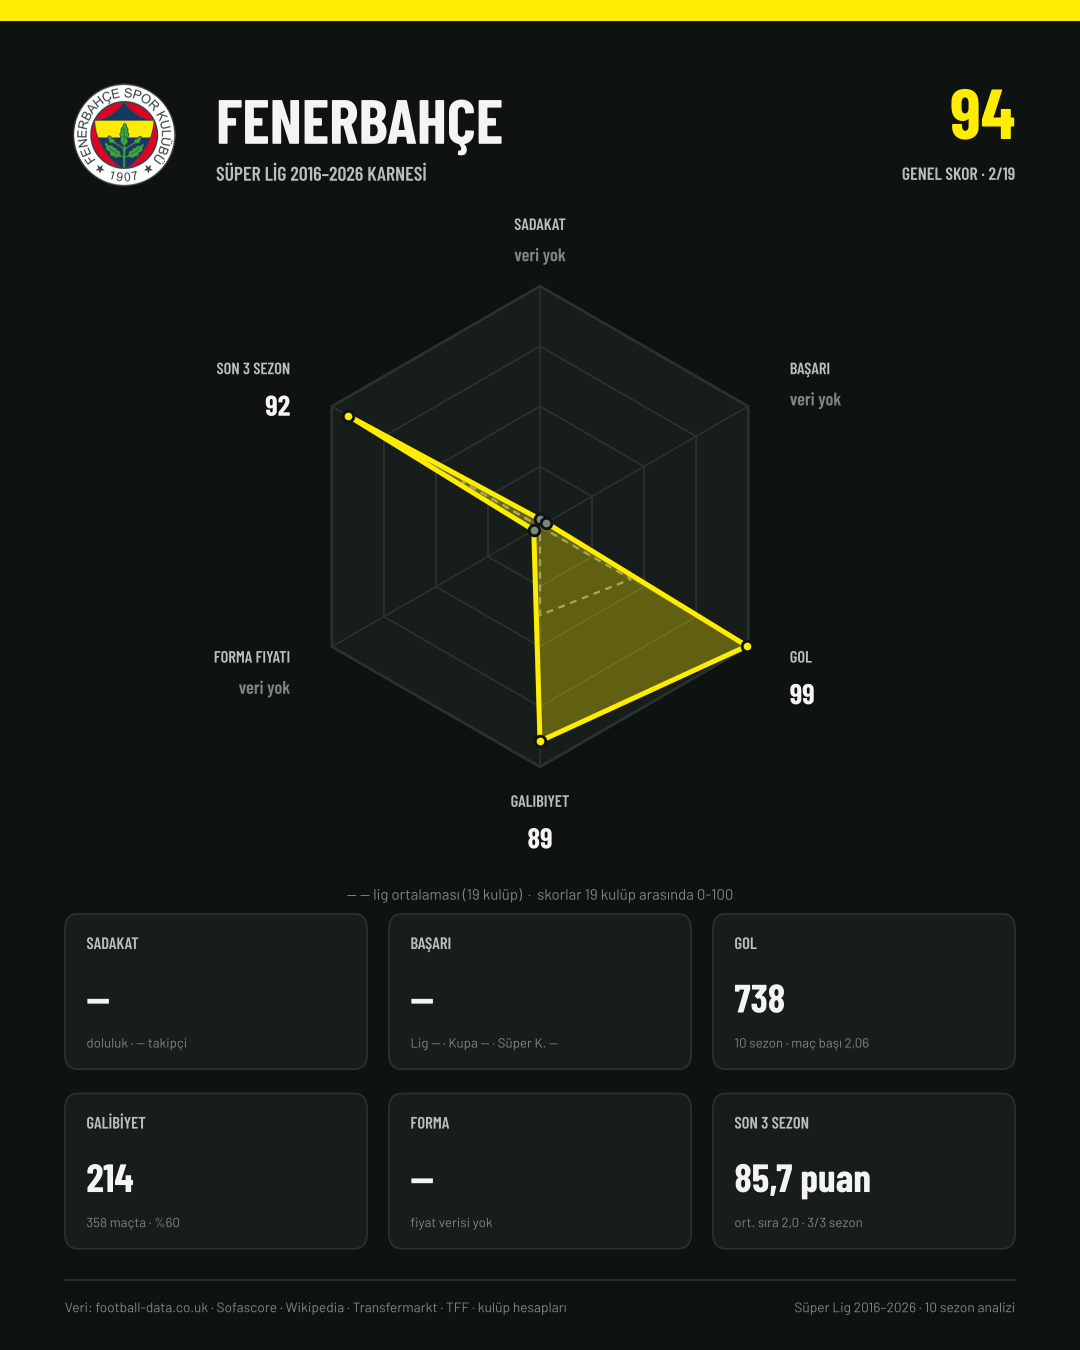
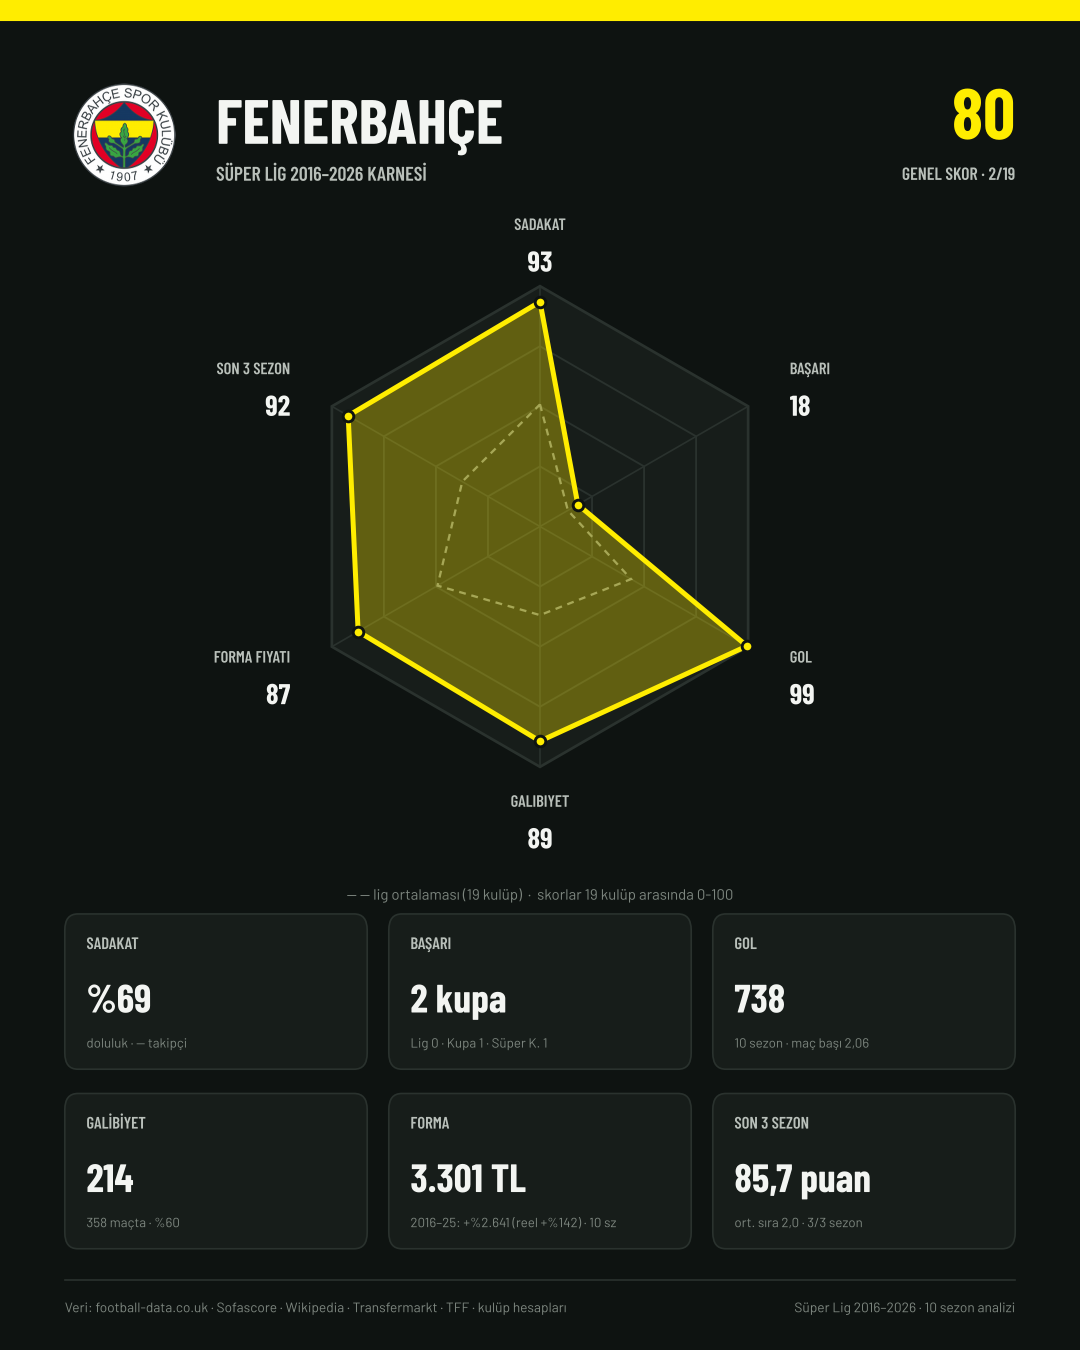
Forma ekseni: reel fiyat, tek sezonlu takımlarda artış yok; Instagram çıktı klasörü temizlenir
Claude-Session: https://claude.ai/code/session_01ReEgfLLAVrHg6JcMw2u4FY

diff --git a/superlig/insta.py b/superlig/insta.py
@@ -134,6 +134,16 @@ def radar(ax, scores, color, avg=None, labels=None, label_vals=None, lw=2.4, lab
                         color=MUTED if miss else INK, family=COND, weight="semibold" if miss else "bold")
 
 
+def _forma_sub(row):
+    n = row.get("forma_sezon")
+    if pd.isna(n):
+        return "fiyat verisi bulunamadı"
+    if n < 2:
+        return f"reel ort. · yalnız {row.forma_ilk_sezon} ({_tr(row.forma_ort_TL)} TL)"
+    return (f"{row.forma_ilk_sezon[:4]}–{row.forma_son_sezon[2:4]}: +%{_tr(row.forma_artis_yuzde)} "
+            f"(reel +%{_tr(row.get('forma_reel_artis_yuzde'))}) · {int(n)} sz")
+
+
 # ------------------------------------------------------------------ takım kartı
 def team_card(row, avg, rank, n, path):
     team = row.takim
@@ -162,9 +172,8 @@ def team_card(row, avg, rank, n, path):
          f"Lig {_tr(row.get('super_lig'))} · Kupa {_tr(row.get('turkiye_kupasi'))} · Süper K. {_tr(row.get('super_kupa'))}"),
         ("GOL", _tr(row.gol_10y), f"{_tr(row.sezon_sayisi)} sezon · maç başı {_tr(row.gol_10y / row.mac, 2)}"),
         ("GALİBİYET", _tr(row.galibiyet_10y), f"{_tr(row.mac)} maçta · %{_tr(row.galibiyet_10y / row.mac * 100)}"),
-        ("FORMA", (_tr(row.get("forma_ort_TL")) + " TL") if pd.notna(row.get("forma_ort_TL")) else "—",
-         (f"ilk-son: +%{_tr(row.get('forma_artis_yuzde'))} artış" if pd.notna(row.get("forma_artis_yuzde"))
-          else "fiyat verisi yok")),
+        ("FORMA", (_tr(row.get("forma_reel_ort_TL")) + " TL") if pd.notna(row.get("forma_reel_ort_TL")) else "—",
+         _forma_sub(row)),
         ("SON 3 SEZON", (_tr(row.son3_puan_ort, 1) + " puan") if pd.notna(row.son3_puan_ort) else "ligde değil",
          (f"ort. sıra {_tr(row.son3_sira_ort, 1)} · {int(row.son3_sezon)}/3 sezon" if pd.notna(row.son3_sezon) else "")),
     ]
@@ -211,14 +220,14 @@ def cover(df, avg, path):
 # ------------------------------------------------------------------ metrik sıralaması
 METRIC_SLIDES = [
     ("sadakat", "SADAKAT", "Doluluk oranı (10 yıl) + sosyal medya takipçisi (log)", "skor_sadakat",
-     lambda r: f"%{_tr(r.doluluk_10y * 100)} · {_compact(r.takipci_toplam)}" if pd.notna(r.get("doluluk_10y")) else _compact(r.get("takipci_toplam"))),
+     lambda r: f"%{_tr(r.get("doluluk_10y", float("nan")) * 100)} · {_compact(r.get("takipci_toplam"))}" if pd.notna(r.get("doluluk_10y")) else _compact(r.get("takipci_toplam"))),
     ("basari", "BAŞARI", "10 yılda Süper Lig + Türkiye Kupası + Süper Kupa", "kupa_10y",
      lambda r: f"{_tr(r.kupa_10y)} kupa"),
     ("gol", "GOL", "10 yılda Süper Lig'de atılan gol", "gol_10y", lambda r: f"{_tr(r.gol_10y)}  ({int(r.sezon_sayisi)} sz)"),
     ("galibiyet", "GALİBİYET", "10 yılda Süper Lig galibiyeti", "galibiyet_10y",
      lambda r: f"{_tr(r.galibiyet_10y)}  ({int(r.sezon_sayisi)} sz)"),
     ("forma", "FORMA FİYATI", "10 yıllık ev forması ortalaması (TÜFE ile reel, güncel TL)", "forma_reel_ort_TL",
-     lambda r: f"{_tr(r.forma_reel_ort_TL)} TL · nominal ort. {_tr(r.forma_ort_TL)}"),
+     lambda r: f"{_tr(r.forma_reel_ort_TL)} TL reel · {int(r.forma_sezon)} sz"),
     ("form", "SON 3 SEZON", "2023-24 – 2025-26 puan ortalaması", "son3_puan_ort",
      lambda r: f"{_tr(r.son3_puan_ort, 1)} p · ort. sıra {_tr(r.son3_sira_ort, 1)}"),
 ]
@@ -254,6 +263,8 @@ def metric_slide(df, key, title, subtitle, col, fmt, path, page):
 
 def render_all():
     OUT.mkdir(parents=True, exist_ok=True)
+    for old in OUT.glob("*.png"):  # sıralama değişince eski numaralı dosyalar kalmasın
+        old.unlink()
     df = scorecard.build()
     sc_cols = [f"skor_{k}" for k, _ in scorecard.AXES]
     df["genel"] = df[sc_cols].mean(axis=1)

diff --git a/superlig/scorecard.py b/superlig/scorecard.py
@@ -105,7 +105,10 @@ def build() -> pd.DataFrame:
         first = f.sort_values("sezon").groupby("takim").fiyat_TL.first()
         last = f.sort_values("sezon").groupby("takim").fiyat_TL.last()
         agg["forma_ilk_TL"], agg["forma_son_TL"] = first, last
-        agg["forma_artis_yuzde"] = (last / first - 1) * 100
+        agg["forma_artis_yuzde"] = np.where(agg.forma_sezon >= 2, (last / first - 1) * 100, np.nan)
+        if "reel_fiyat_TL" in f:
+            rf = f.sort_values("sezon").groupby("takim").reel_fiyat_TL
+            agg["forma_reel_artis_yuzde"] = np.where(agg.forma_sezon >= 2, (rf.last() / rf.first() - 1) * 100, np.nan)
         if "reel_fiyat_TL" in f:
             agg["forma_reel_ort_TL"] = f.groupby("takim").reel_fiyat_TL.mean()
         df = df.join(agg)

diff --git a/data/agents/forma/RAPOR.md b/data/agents/forma/RAPOR.md
@@ -1,0 +1,78 @@
+# Forma fiyatı ve TÜFE alt-ajanı raporu
+
+Hazırlanma tarihi: 2026-10-06 · Klasör: `data/agents/forma/`
+
+## Çıktılar
+
+| Dosya | İçerik |
+|---|---|
+| `forma_fiyat.csv` | 19 takım × 10 sezon = 190 satır (`takim,sezon,fiyat_TL,urun_adi,kaynak_url,kaynak_tarihi,not`). Bulunamayan hücrelerde `fiyat_TL` boş, `not` sütununda neden yazıyor. |
+| `tufe.csv` | TÜFE (2003=100) aylık endeks, 2016-01 … 2026-09 (129 ay). |
+| `RAPOR.md` | Bu rapor. |
+
+## A) Yetişkin iç saha forması lansman fiyatı – kapsam
+
+**64 / 190 hücre dolu.** Değerler TL, KDV dahil perakende (lansman) fiyatıdır.
+
+İşaretler: `g` = goal.com fiyat galerisi (2019-08-21, kulüp resmi sitelerinden 20 Ağustos 2019 fiyatları; ürün tipi belirtilmemiş) ·
+`†` = lansman penceresi dışında bir kaynaktan (sonraki indirim haberindeki liste fiyatı ya da bir sonraki sezonun haberindeki "geçen sezon" fiyatı) ·
+`?` = hangi formanın iç saha olduğu kaynakta net değil · `*` = ikincil anma (başka bir kulübün haberinde geçen fiyat) · `–` = bulunamadı.
+
+| Takım | 2016-17 | 2017-18 | 2018-19 | 2019-20 | 2020-21 | 2021-22 | 2022-23 | 2023-24 | 2024-25 | 2025-26 | n |
+|---|---:|---:|---:|---:|---:|---:|---:|---:|---:|---:|---:|
+| Galatasaray | – | 179 | 189,90 | 249,90 | 279 | 399 | 799,90 | 1.449 | 2.999 | 4.499,99 | 9 |
+| Fenerbahçe | 155 | 169 | 189 | 249 | 289 | 319 | 629 | 1.399* | 2.999 | 4.249 | 10 |
+| Beşiktaş | 155 | 169 | 189 | 249g | 289 | 359 | 599 | 1.399 | 2.999 | 4.250 | 10 |
+| Trabzonspor | – | – | – | 199,99g | – | 329* | 599,99 | 961 | 1.967 | 3.199 | 6 |
+| İstanbul Başakşehir | – | – | – | – | – | – | – | – | – | – | 0 |
+| Konyaspor | – | – | – | – | – | 192,20 | – | 650† | 1.449,95 | 1.242 | 4 |
+| Antalyaspor | – | – | – | – | 139 | 229 | 497† | – | 1.690† | 1.966 | 5 |
+| Alanyaspor | – | 79,50 | – | – | – | – | – | – | – | – | 1 |
+| Kasımpaşa | – | – | – | – | – | – | – | – | – | – | 0 |
+| Kayserispor | – | – | – | 149g | – | – | 500? | 699 | 1.966 | – | 4 |
+| Sivasspor | – | – | – | – | – | – | – | 558 | 1.058 | 1.458 | 3 |
+| Çaykur Rizespor | 120 | – | – | 189,90g | 149 | – | – | 500 | – | – | 4 |
+| Gaziantep FK | – | – | – | – | – | – | – | – | – | – | 0 |
+| Göztepe | – | – | – | 190 | – | – | – | – | – | – | 1 |
+| Gençlerbirliği | – | – | – | – | – | – | – | – | 1.350 | – | 1 |
+| Fatih Karagümrük | – | – | – | – | – | – | – | 699,90 | – | – | 1 |
+| Ankaragücü | – | – | – | – | – | – | – | 749 | 1.399 | – | 2 |
+| Hatayspor | – | – | – | – | – | – | – | 1.000 | – | – | 1 |
+| Yeni Malatyaspor | – | – | – | 130g | – | 170 | – | – | – | – | 2 |
+| **Dolu hücre** | 3 | 4 | 3 | 8 | 5 | 7 | 6 | 11 | 10 | 7 | **64** |
+
+### Takım bazında durum
+- **En iyi kapsam:** Fenerbahçe (10/10), Beşiktaş (10/10), Galatasaray (9/10; yalnızca 2016-17 eksik), Trabzonspor (6/10).
+- **Orta:** Antalyaspor (5), Konyaspor (4), Kayserispor (4), Çaykur Rizespor (4), Sivasspor (3).
+- **En zayıf:** İstanbul Başakşehir, Kasımpaşa ve Gaziantep FK (0/10); Alanyaspor, Göztepe, Gençlerbirliği, Fatih Karagümrük, Hatayspor (1/10); Ankaragücü ve Yeni Malatyaspor (2/10).
+- Sezon bazında en iyi kapsam 2023-24'te (AA'nın 2023-07-14 tarihli toplu haberi sayesinde); en zayıf 2016-17 ve 2018-19.
+
+### Kullanılan kaynak türleri
+1. **Ulusal spor/haber siteleri** (fanatik, cnnturk, milliyet, sabah, hürriyet, habertürk, ntv, karar, cumhuriyet, star, onedio, ensonhaber, diken vb.): lansman günü "formalar X TL'den satışa çıktı" haberleri. Büyük kulüplerin çoğu bunlardan geldi.
+2. **Anadolu Ajansı (aa.com.tr)**: kulüp bazlı lansman haberleri ve 2023-07-14 tarihli toplu haber ("Süper Lig'de takımlar yeni sezon formalarıyla sahaları renklendirecek"; TS, Sivasspor, Ankaragücü, Kayserispor, Rizespor, Karagümrük). aa.com.tr yalnızca `curl` ile okunabildi (Python requests bağlantıyı kesiyor).
+3. **goal.com Türkçe**: 2018-07-31 BJK/FB fiyat yazıları, 2022 kulüp forma yazıları ve **2019-08-21 "Süper Lig ve Avrupa'da forma fiyatları" galerisi** (resmi sitelerden 20 Ağustos 2019 fiyatları; 2019-20 için 5 hücre yalnızca buna dayanıyor).
+4. **Yerel basın** (Konya: pusulahaber, konyaimza; Antalya: akdenizmanset, antalyaekspres; Kayseri: kayseriyerelhaber; Sivas: gundemsivas; Rize: rizedeyiz, bolgegundem; Hatay: antakyagazetesi; Ankara: haberankara, ticarihayat).
+5. **Kulüp resmi kanalları**: antalyaspor.com.tr (2020-09-30 duyurusu), Sivasspor resmi X hesabı (2025-07-05; tarih tweet kimliğinden çözüldü). Kulüp açıklamaları haberlerde alıntılandığında haberin URL'si verildi.
+6. **Habertürk 2025-07-30 karşılaştırma tablosu** (BJK/FB/GS 2021/22–2025/26, yuvarlanmış): yalnızca **çapraz kontrol** için kullanıldı, `not` sütununda belirtildi; hiçbir hücre yalnızca buna dayanmıyor.
+
+### Erişilemeyen / kullanılmayan kaynaklar
+- **web.archive.org** ağ politikasıyla engelli (talimat gereği denenmedi); **archive.ph** bağlantı vermedi. Google cache yok.
+- **gsstore.org, fenerium.com, kartalyuvasi.com.tr, trendyol** 403; **bjk.com.tr, trabzonspor.org.tr, hatayspor.org.tr** 403; **kayserispor.org.tr, sivasspor.com.tr, shop.hatayspor.org.tr, alanyasporstore.com** bağlantı yok. WebFetch aracı hurriyet/ajansspor için egress engeli verdi; bunlar `curl` ile okundu.
+- Erişilebilen kulüp mağazaları (konyastore, ksstore, store.antalyaspor, gozgoz, ankaragucustore, gfkstore, trabzonspor.com.tr) bugün (2026-10-06) **2026-27** ürünlerini gösteriyor; 2025-26 ürün sayfaları çoğunlukla 404 ya da JS ile render ediliyor. Bu yüzden "güncel mağaza fiyatı" hiçbir hücrede kullanılmadı.
+- **Resmi olmayan/sahte görünümlü mağaza alan adları** (alanyaspor-fc.com, istanbul-basaksehir.com, caykur-rizespor.com, goztepe-sk.com, kayserisporfc.com vb.) kullanılmadı.
+
+### Uyarılar (analizde dikkat)
+- **Ürün tipi tutarlılığı:** 2024-25'ten itibaren büyük kulüpler çok kademeli satıyor (GS 2024-25: profesyonel / maç / taraftar; BJK 2025-26: "futbolcu" 4.250 vs "taraftar" 3.500). Tabloda her zaman **standart replika (ana maç forması)** alındı, daha ucuz "taraftar forması" ve pahalı "authentic/oyuncu" versiyonu `not`'ta. GS 2023-24'te taraftar forması 1.499,90, orijinal 3.699,90 TL'dir; tabloda 4 Haziran 2023 satış öncesi açıklanan 1.449 TL var.
+- **Lansman zamanı:** GS 2017-18 ve 2018-19 formaları Mayıs ayında (sezon bitmeden) çıktı; 2020-21'de pandemi nedeniyle lansmanlar Ağustos-Eylül'e kaydı (Antalyaspor 30 Eylül 2020, Rizespor 2 Eylül 2020). Bazı kaynaklar satıştan birkaç gün önce açıklanan fiyatı veriyor (not'ta belirtildi).
+- **Lansman indirimi:** Antalyaspor 2021-22'de ilk hafta 207 TL, liste 229 TL → liste fiyatı alındı.
+- **Toplu fiyatlar:** Birçok küçük kulüp tüm formaları aynı fiyata satıyor (Sivasspor, Rizespor 2023-24, Ankaragücü); bu durumda iç saha forması da o fiyattadır.
+- **Galeri (g) hücreleri** iç saha/yetişkin ayrımı yapmıyor ve lansmandan ~1-2 ay sonraki fiyattır; **† hücreleri** lansman fiyatından farklı olabilir. Reel analizde bu hücreler duyarlılık testiyle ayrıca ele alınmalı.
+- Bir hücre (Kayserispor 2022-23, `?`) için iç saha formasının kırmızı mı sarı mı olduğu belirsiz (kırmızı/siyah 500, sarı 550 TL).
+- Formanın satışa çıktığı ay ile kaynak tarihi `kaynak_tarihi` sütunundadır; reel çevirmede bu ayın TÜFE'si kullanılabilir.
+
+## B) TÜFE (2003=100)
+
+- **Kaynak:** TCMB EVDS (yeni arayüz `evds3.tcmb.gov.tr`), seri **TP.GENENDEKS.T1** "Genel Endeks (2003=100)", veri grubu `bie_tukfiy2003`, kaynak TÜİK. EVDS2 API anahtar istiyor; evds3 web arayüzünün kullandığı herkese açık `/igmevdsms-dis/fe` uç noktasından anahtarsız çekildi.
+- **Önemli:** TÜİK Ocak 2026'dan itibaren TÜFE'yi **2025=100** bazına geçirdi. EVDS notuna göre 2003=100 **genel endeks** yayımlanmaya devam ediyor (alt kalemler arşivlendi). Arşiv serisi TP.FG.J0 ile 2016-01…2026-01 arasında birebir aynı (kontrol edildi). Doğrulama: 2022-12 = 1.128,45; 2023-12 = 1.859,38; 2024-12 = 2.684,55.
+- **Kapsam:** 2016-01 … 2026-09, 129 ay, eksik yok. En son değer: 4368.35 (2026-09) → reel çevirme için baz ay.
+- Reel fiyat: `fiyat_reel = fiyat_TL × TÜFE[2026-09] / TÜFE[lansman ayı]`.
